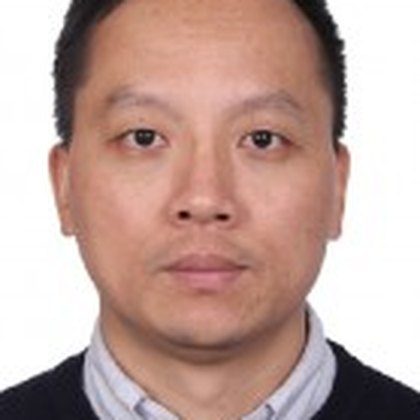
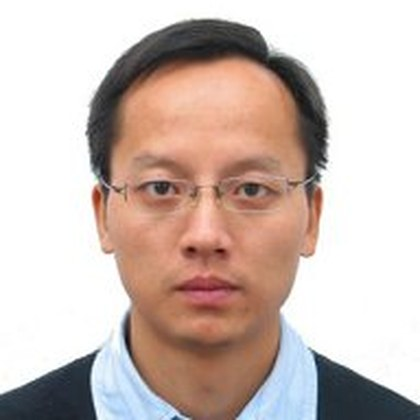
Use Fei Wu Google Scholar photo

diff --git a/index.html b/index.html
@@ -93,7 +93,7 @@
 
     <footer class="site-footer">
       <p>FuseFM: Model Fusion for Collaborative Foundation Model Development.</p>
-      <p>Header image is a generated visual created for this site. Organizer profile photos are from the PolyU team page and Zhejiang University profile page.</p>
+      <p>Header image is a generated visual created for this site. Organizer profile photos are from the PolyU team page and Fei Wu's Google Scholar profile.</p>
     </footer>
   </body>
 </html>

diff --git a/organizers.html b/organizers.html
@@ -61,7 +61,7 @@
 
     <footer class="site-footer">
       <p>FuseFM: Model Fusion for Collaborative Foundation Model Development.</p>
-      <p>Organizer profile photos are from the PolyU team page and Zhejiang University profile page.</p>
+      <p>Organizer profile photos are from the PolyU team page and Fei Wu's Google Scholar profile.</p>
     </footer>
   </body>
 </html>